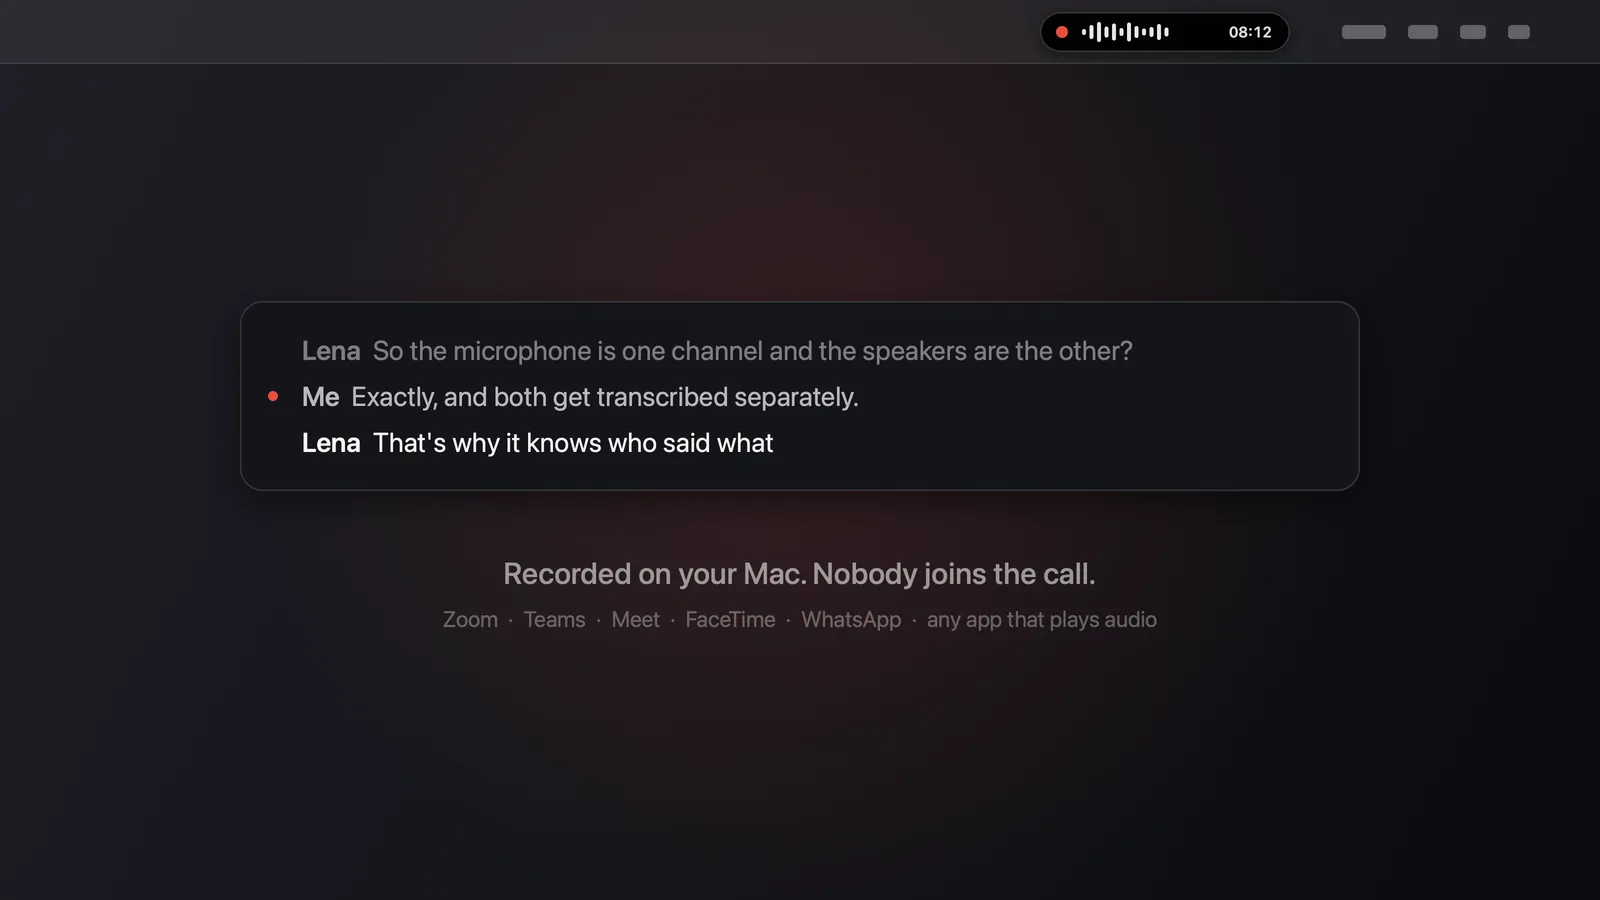
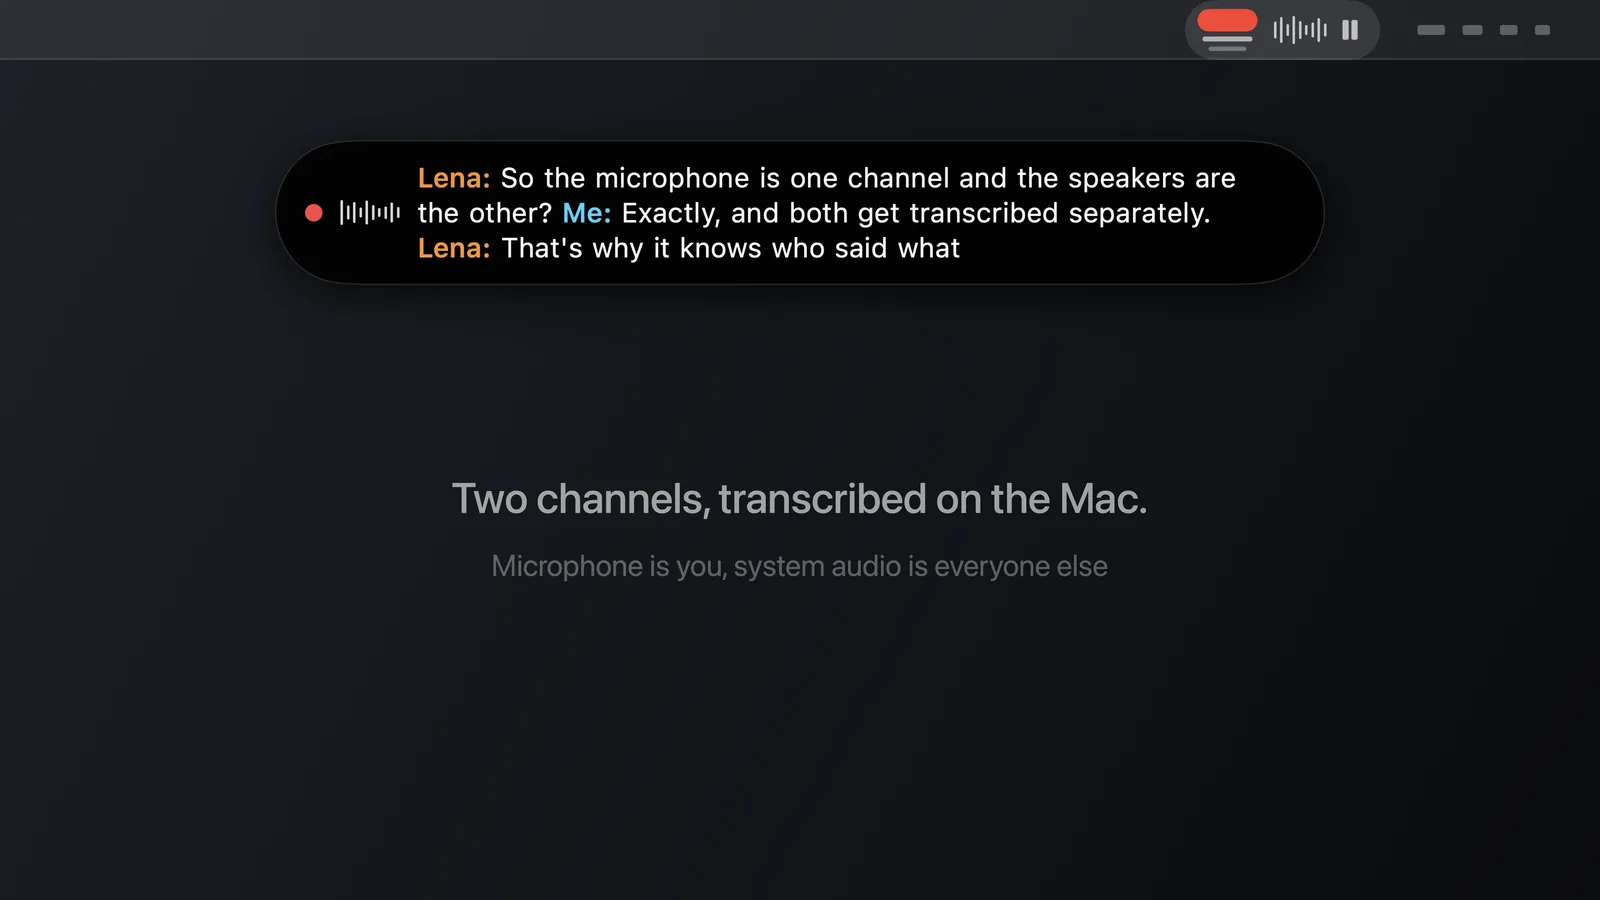
Hero images rendered from the real UI (--render-hero), AI disclaimer under every post
- new Transcriber --render-hero: composes PillView and FloatingBarView with fake state
  on the icon background, replaces the hand-drawn make-hero.swift
- build adds an italic AI note from config.json aiNote under the closing paragraph of every post
- all three heroes and the OG image regenerated

diff --git a/Sources/Transcriber/App/HeroRender.swift b/Sources/Transcriber/App/HeroRender.swift
@@ -1,0 +1,114 @@
+import AppKit
+import SwiftUI
+
+/// Renders marketing images from the real UI code: the menu bar pill (`PillView`) and the
+/// floating transcript bar (`FloatingBarView`) with fake state, composed on the dark
+/// background of the app icon. Used for blog hero images so they look exactly like the app.
+///
+///   Transcriber --render-hero out.png [--timer 12:34] [--caption "text"] [--sub "text"] "Anna: line" "Me: line" ...
+///
+/// Lines are "Speaker: text". The last line is the one being transcribed right now.
+enum HeroRender {
+    @MainActor
+    static func run(arguments: [String]) async -> Int32 {
+        var args = Array(arguments.dropFirst())
+        guard let i = args.firstIndex(of: "--render-hero"), i + 1 < args.count else {
+            FileHandle.standardError.write("usage: Transcriber --render-hero out.png [--timer mm:ss] [--caption text] [--sub text] \"Name: line\" ...\n".data(using: .utf8)!)
+            return 2
+        }
+        args.remove(at: i)
+        let out = args.remove(at: i)
+        var timer = "12:47", caption = "Recorded on your Mac. Nobody joins the call.", sub = "Zoom  ·  Teams  ·  Meet  ·  FaceTime  ·  WhatsApp  ·  any app that plays audio"
+        func take(_ flag: String, into: inout String) {
+            if let j = args.firstIndex(of: flag), j + 1 < args.count { into = args[j + 1]; args.removeSubrange(j...j + 1) }
+        }
+        take("--timer", into: &timer); take("--caption", into: &caption); take("--sub", into: &sub)
+        let lines = args
+
+        // Fake state: recording for `timer`, a live waveform, the given lines as final transcript lines.
+        let state = AppState()
+        let settings = AppSettings.shared
+        let parts = timer.split(separator: ":").compactMap { Int($0) }
+        let elapsed = TimeInterval((parts.count == 2 ? parts[0] * 60 + parts[1] : 0))
+        state.phase = .recording
+        state.recordingStartedAt = Date().addingTimeInterval(-elapsed)
+        state.levelHistory = [0.30, 0.70, 1.0, 0.55, 0.85, 0.40, 0.95, 0.60, 0.35, 0.50, 0.80, 0.45,
+                              0.30, 0.70, 1.0, 0.55, 0.85, 0.40, 0.95, 0.60, 0.35, 0.50, 0.80, 0.45]
+        var t: TimeInterval = 0
+        state.liveLines = lines.map { raw in
+            let p = raw.split(separator: ":", maxSplits: 1).map { $0.trimmingCharacters(in: .whitespaces) }
+            let speaker = p.count == 2 ? p[0] : "Speaker"
+            let text = p.count == 2 ? p[1] : raw
+            let channel: Channel? = speaker.lowercased() == settings.myName.lowercased() || speaker.lowercased() == "me" ? .me : .them
+            defer { t += 6 }
+            return TranscriptLine(channel: channel, speaker: speaker, text: text, start: t)
+        }
+        let model = FloatingBarModel()
+        model.animated = false
+        model.update(state: state, settings: settings)
+
+        // Render both views from the real code at a fixed scale.
+        let scale: CGFloat = 5
+        let bar = FloatingBarView(state: state, settings: settings, model: model)
+        let pill = PillView(state: state).environment(\.colorScheme, .dark)
+        guard let barImg = render(bar, scale: scale), let pillImg = render(pill, scale: scale) else {
+            FileHandle.standardError.write("render failed\n".data(using: .utf8)!)
+            return 1
+        }
+
+        // Compose: dark gradient (app icon), a menu bar strip with the pill at the right, the bar under it.
+        let W: CGFloat = 3200, H: CGFloat = 1800
+        let img = NSImage(size: NSSize(width: W, height: H))
+        img.lockFocus()
+        guard let ctx = NSGraphicsContext.current?.cgContext else { return 1 }
+        let sRGB = CGColorSpace(name: CGColorSpace.sRGB)!
+        func rgb(_ r: CGFloat, _ g: CGFloat, _ b: CGFloat, _ a: CGFloat = 1) -> CGColor { NSColor(srgbRed: r/255, green: g/255, blue: b/255, alpha: a).cgColor }
+        let g = CGGradient(colorsSpace: sRGB, colors: [rgb(0x1e, 0x20, 0x28), rgb(0x0a, 0x0b, 0x0f)] as CFArray, locations: [0, 1])!
+        ctx.drawLinearGradient(g, start: CGPoint(x: 0, y: H), end: CGPoint(x: W, y: 0), options: [])
+
+        let menuH = 24 * scale
+        ctx.setFillColor(rgb(255, 255, 255, 0.07)); ctx.fill(CGRect(x: 0, y: H - menuH, width: W, height: menuH))
+        ctx.setFillColor(rgb(255, 255, 255, 0.10)); ctx.fill(CGRect(x: 0, y: H - menuH, width: W, height: 1.5 * scale / 2))
+        // faint placeholders for other menu bar items to the right of the pill
+        var gx = W - 20 * scale
+        for w in [6, 7, 8, 11] as [CGFloat] {
+            let r = CGRect(x: gx - w * scale, y: H - menuH / 2 - 2 * scale, width: w * scale, height: 4 * scale)
+            ctx.addPath(CGPath(roundedRect: r, cornerWidth: scale, cornerHeight: scale, transform: nil)); ctx.setFillColor(rgb(255, 255, 255, 0.28)); ctx.fillPath()
+            gx -= (w + 7) * scale
+        }
+        let pillSize = CGSize(width: CGFloat(pillImg.width), height: CGFloat(pillImg.height))
+        ctx.draw(pillImg, in: CGRect(x: gx - 8 * scale - pillSize.width, y: H - menuH / 2 - pillSize.height / 2, width: pillSize.width, height: pillSize.height))
+
+        let barSize = CGSize(width: CGFloat(barImg.width), height: CGFloat(barImg.height))
+        let barRect = CGRect(x: (W - barSize.width) / 2, y: H - menuH - 8 * scale - barSize.height, width: barSize.width, height: barSize.height)
+        ctx.saveGState()
+        ctx.setShadow(offset: CGSize(width: 0, height: -6 * scale / 2), blur: 24 * scale / 2, color: rgb(0, 0, 0, 0.55))
+        ctx.draw(barImg, in: barRect)
+        ctx.restoreGState()
+
+        if !caption.isEmpty {
+            let capAttrs: [NSAttributedString.Key: Any] = [.font: NSFont.systemFont(ofSize: 17 * scale, weight: .medium), .foregroundColor: NSColor.white.withAlphaComponent(0.6)]
+            let csz = (caption as NSString).size(withAttributes: capAttrs)
+            (caption as NSString).draw(at: CGPoint(x: (W - csz.width) / 2, y: H * 0.42), withAttributes: capAttrs)
+            if !sub.isEmpty {
+                let subAttrs: [NSAttributedString.Key: Any] = [.font: NSFont.systemFont(ofSize: 12 * scale), .foregroundColor: NSColor.white.withAlphaComponent(0.32)]
+                let ssz = (sub as NSString).size(withAttributes: subAttrs)
+                (sub as NSString).draw(at: CGPoint(x: (W - ssz.width) / 2, y: H * 0.42 - 10 * scale - ssz.height), withAttributes: subAttrs)
+            }
+        }
+        img.unlockFocus()
+
+        guard let tiff = img.tiffRepresentation, let rep = NSBitmapImageRep(data: tiff), let png = rep.representation(using: .png, properties: [:]) else { return 1 }
+        do { try png.write(to: URL(fileURLWithPath: out)) } catch { FileHandle.standardError.write("\(error)\n".data(using: .utf8)!); return 1 }
+        print("wrote \(out) (bar \(Int(barSize.width / scale))x\(Int(barSize.height / scale)) pt, \(lines.count) lines)")
+        return 0
+    }
+
+    @MainActor
+    private static func render<V: View>(_ view: V, scale: CGFloat) -> CGImage? {
+        let renderer = ImageRenderer(content: view)
+        renderer.scale = scale
+        renderer.isOpaque = false
+        return renderer.cgImage
+    }
+}

diff --git a/website/blog/record-zoom-call-mac-transcript/index.html b/website/blog/record-zoom-call-mac-transcript/index.html
@@ -153,6 +153,10 @@ footer a { color: #e6e7ec; }
 footer a:hover { color: #fff; }
 footer .legal { max-width: 980px; margin: 14px auto 0; padding-top: 12px; border-top: 1px solid rgba(255,255,255,0.1); font-size: 11.5px; line-height: 1.5; color: #8a8e9b; }
 @media (max-width: 720px) { footer { padding: 22px 22px 18px; } footer .in { flex-wrap: wrap; gap: 12px 18px; } footer .tag { display: none; } footer .links { gap: 16px; } }
+
+/* AI disclaimer under every post */
+.ai-note { margin: 28px 0 0; font-size: 13px; line-height: 1.5; color: var(--muted, #767b8a); }
+.ai-note em { font-style: italic; }
 </style>
 
 <script type="application/ld+json">{"@context":"https://schema.org","@graph":[{"@type":"BlogPosting","headline":"How to record a Zoom call on a Mac and get a transcript","description":"Record a Zoom call on your Mac, with both sides of the conversation, and turn it into a transcript without sending the audio anywhere.","datePublished":"2026-09-08T12:00:00.000Z","dateModified":"2026-09-08T12:00:00.000Z","author":{"@type":"Person","name":"Moritz Krause","url":"https://moritz-krause.com"},"publisher":{"@type":"Organization","name":"Transcriber","url":"https://transcriber-x84.pages.dev"},"mainEntityOfPage":"https://transcriber-x84.pages.dev/blog/record-zoom-call-mac-transcript/","keywords":"record zoom call mac, zoom call transcript, transcribe zoom call, system audio mac","wordCount":854,"inLanguage":"en"},{"@type":"BreadcrumbList","itemListElement":[{"@type":"ListItem","position":1,"name":"Transcriber","item":"https://transcriber-x84.pages.dev"},{"@type":"ListItem","position":2,"name":"Blog","item":"https://transcriber-x84.pages.dev/blog/"},{"@type":"ListItem","position":3,"name":"How to record a Zoom call on a Mac and get a transcript","item":"https://transcriber-x84.pages.dev/blog/record-zoom-call-mac-transcript/"}]},{"@type":"FAQPage","mainEntity":[{"@type":"Question","name":"Does Zoom have to be set to record for this to work?","acceptedAnswer":{"@type":"Answer","text":"No. Transcriber listens to what your Mac plays and what your microphone hears, so it doesn't matter whether Zoom's own recording is on, off, or locked by the host."}},{"@type":"Question","name":"Will the other person be transcribed as well?","acceptedAnswer":{"@type":"Answer","text":"Yes. The far end comes in through your Mac's audio output and is captured as its own channel, so their words land in the transcript with a separate speaker label."}},{"@type":"Question","name":"Does any audio leave my Mac?","acceptedAnswer":{"@type":"Answer","text":"No. Transcription runs on your machine with a downloaded model. The only network access is the one-time download of that model and the update check against GitHub."}},{"@type":"Question","name":"Which macOS version do I need?","acceptedAnswer":{"@type":"Answer","text":"macOS 14.2 or newer, because that's where Apple added the audio tap that makes recording another app's sound possible. An Apple Silicon Mac is recommended."}},{"@type":"Question","name":"Is it legal to record a call?","acceptedAnswer":{"@type":"Answer","text":"That depends on where you and the other people are. In many places, including Germany, recording without consent is a crime. Tell everyone before you press record."}}]}]}</script>
@@ -201,6 +205,7 @@ footer .legal { max-width: 980px; margin: 14px auto 0; padding-top: 12px; border
     <div class="cta-icon"><svg viewBox="0 0 200 200" aria-hidden="true"><defs><linearGradient id="gF" x1="0" y1="0" x2="1" y2="1"><stop offset="0" stop-color="#1e2028"/><stop offset="1" stop-color="#0a0b0f"/></linearGradient></defs><rect width="200" height="200" rx="44.74" fill="url(#gF)"/><rect x="22" y="53" width="156" height="56" rx="28" fill="rgba(0,0,0,0.92)"/><rect x="23" y="54" width="154" height="54" rx="27" fill="none" stroke="rgba(255,255,255,0.2)" stroke-width="2"/><circle cx="50" cy="81" r="8" fill="#ff3b30"/><g fill="rgba(255,255,255,0.9)"><rect x="72" y="76.8" width="4.8" height="8.4" rx="2.4"/><rect x="80.8" y="71.2" width="4.8" height="19.6" rx="2.4"/><rect x="89.6" y="67" width="4.8" height="28" rx="2.4"/><rect x="98.4" y="73.3" width="4.8" height="15.4" rx="2.4"/><rect x="107.2" y="69.1" width="4.8" height="23.8" rx="2.4"/><rect x="116" y="75.4" width="4.8" height="11.2" rx="2.4"/><rect x="124.8" y="67.7" width="4.8" height="26.6" rx="2.4"/><rect x="133.6" y="72.6" width="4.8" height="16.8" rx="2.4"/><rect x="142.4" y="76.1" width="4.8" height="9.8" rx="2.4"/><rect x="151.2" y="74" width="4.8" height="14" rx="2.4"/></g><rect x="34" y="123" width="132" height="9" rx="4.5" fill="rgba(255,255,255,0.6)"/><rect x="50" y="146" width="100" height="9" rx="4.5" fill="rgba(255,255,255,0.3)"/></svg></div>
     <div><p>If that sounds like how you'd want to work, Transcriber is free and runs on your Mac. If not, no hard feelings, there are plenty of other ways to get a transcript.</p><a class="btn lg" href="https://github.com/moritzjuliankrause/Transcriber/releases/latest">Download for macOS</a> <a class="quiet" href="../../">What Transcriber does</a></div>
   </aside>
+  <p class="ai-note"><em>This article was written with the help of AI, based on how Transcriber actually works, and read and approved by Moritz Krause before publishing.</em></p>
   
 </main>
 <footer>

diff --git a/website/blog/preview/how-transcriber-works/index.html b/website/blog/preview/how-transcriber-works/index.html
@@ -154,6 +154,10 @@ footer a { color: #e6e7ec; }
 footer a:hover { color: #fff; }
 footer .legal { max-width: 980px; margin: 14px auto 0; padding-top: 12px; border-top: 1px solid rgba(255,255,255,0.1); font-size: 11.5px; line-height: 1.5; color: #8a8e9b; }
 @media (max-width: 720px) { footer { padding: 22px 22px 18px; } footer .in { flex-wrap: wrap; gap: 12px 18px; } footer .tag { display: none; } footer .links { gap: 16px; } }
+
+/* AI disclaimer under every post */
+.ai-note { margin: 28px 0 0; font-size: 13px; line-height: 1.5; color: var(--muted, #767b8a); }
+.ai-note em { font-style: italic; }
 </style>
 
 
@@ -203,6 +207,7 @@ footer .legal { max-width: 980px; margin: 14px auto 0; padding-top: 12px; border
     <div class="cta-icon"><svg viewBox="0 0 200 200" aria-hidden="true"><defs><linearGradient id="gF" x1="0" y1="0" x2="1" y2="1"><stop offset="0" stop-color="#1e2028"/><stop offset="1" stop-color="#0a0b0f"/></linearGradient></defs><rect width="200" height="200" rx="44.74" fill="url(#gF)"/><rect x="22" y="53" width="156" height="56" rx="28" fill="rgba(0,0,0,0.92)"/><rect x="23" y="54" width="154" height="54" rx="27" fill="none" stroke="rgba(255,255,255,0.2)" stroke-width="2"/><circle cx="50" cy="81" r="8" fill="#ff3b30"/><g fill="rgba(255,255,255,0.9)"><rect x="72" y="76.8" width="4.8" height="8.4" rx="2.4"/><rect x="80.8" y="71.2" width="4.8" height="19.6" rx="2.4"/><rect x="89.6" y="67" width="4.8" height="28" rx="2.4"/><rect x="98.4" y="73.3" width="4.8" height="15.4" rx="2.4"/><rect x="107.2" y="69.1" width="4.8" height="23.8" rx="2.4"/><rect x="116" y="75.4" width="4.8" height="11.2" rx="2.4"/><rect x="124.8" y="67.7" width="4.8" height="26.6" rx="2.4"/><rect x="133.6" y="72.6" width="4.8" height="16.8" rx="2.4"/><rect x="142.4" y="76.1" width="4.8" height="9.8" rx="2.4"/><rect x="151.2" y="74" width="4.8" height="14" rx="2.4"/></g><rect x="34" y="123" width="132" height="9" rx="4.5" fill="rgba(255,255,255,0.6)"/><rect x="50" y="146" width="100" height="9" rx="4.5" fill="rgba(255,255,255,0.3)"/></svg></div>
     <div><p>If that sounds like how you'd want to work, Transcriber is free and runs on your Mac. If not, no hard feelings, there are plenty of other ways to get a transcript.</p><a class="btn lg" href="https://github.com/moritzjuliankrause/Transcriber/releases/latest">Download for macOS</a> <a class="quiet" href="../../../">What Transcriber does</a></div>
   </aside>
+  <p class="ai-note"><em>This article was written with the help of AI, based on how Transcriber actually works, and read and approved by Moritz Krause before publishing.</em></p>
   <section class="more"><h2>More from the blog</h2><ul><li><a href="../../record-zoom-call-mac-transcript/"><span class="t">How to record a Zoom call on a Mac and get a transcript</span><span class="d">September 8, 2026</span></a></li></ul></section>
 </main>
 <footer>

diff --git a/website/blog/preview/record-meeting-without-bot-mac/index.html b/website/blog/preview/record-meeting-without-bot-mac/index.html
@@ -154,6 +154,10 @@ footer a { color: #e6e7ec; }
 footer a:hover { color: #fff; }
 footer .legal { max-width: 980px; margin: 14px auto 0; padding-top: 12px; border-top: 1px solid rgba(255,255,255,0.1); font-size: 11.5px; line-height: 1.5; color: #8a8e9b; }
 @media (max-width: 720px) { footer { padding: 22px 22px 18px; } footer .in { flex-wrap: wrap; gap: 12px 18px; } footer .tag { display: none; } footer .links { gap: 16px; } }
+
+/* AI disclaimer under every post */
+.ai-note { margin: 28px 0 0; font-size: 13px; line-height: 1.5; color: var(--muted, #767b8a); }
+.ai-note em { font-style: italic; }
 </style>
 
 
@@ -200,6 +204,7 @@ footer .legal { max-width: 980px; margin: 14px auto 0; padding-top: 12px; border
     <div class="cta-icon"><svg viewBox="0 0 200 200" aria-hidden="true"><defs><linearGradient id="gF" x1="0" y1="0" x2="1" y2="1"><stop offset="0" stop-color="#1e2028"/><stop offset="1" stop-color="#0a0b0f"/></linearGradient></defs><rect width="200" height="200" rx="44.74" fill="url(#gF)"/><rect x="22" y="53" width="156" height="56" rx="28" fill="rgba(0,0,0,0.92)"/><rect x="23" y="54" width="154" height="54" rx="27" fill="none" stroke="rgba(255,255,255,0.2)" stroke-width="2"/><circle cx="50" cy="81" r="8" fill="#ff3b30"/><g fill="rgba(255,255,255,0.9)"><rect x="72" y="76.8" width="4.8" height="8.4" rx="2.4"/><rect x="80.8" y="71.2" width="4.8" height="19.6" rx="2.4"/><rect x="89.6" y="67" width="4.8" height="28" rx="2.4"/><rect x="98.4" y="73.3" width="4.8" height="15.4" rx="2.4"/><rect x="107.2" y="69.1" width="4.8" height="23.8" rx="2.4"/><rect x="116" y="75.4" width="4.8" height="11.2" rx="2.4"/><rect x="124.8" y="67.7" width="4.8" height="26.6" rx="2.4"/><rect x="133.6" y="72.6" width="4.8" height="16.8" rx="2.4"/><rect x="142.4" y="76.1" width="4.8" height="9.8" rx="2.4"/><rect x="151.2" y="74" width="4.8" height="14" rx="2.4"/></g><rect x="34" y="123" width="132" height="9" rx="4.5" fill="rgba(255,255,255,0.6)"/><rect x="50" y="146" width="100" height="9" rx="4.5" fill="rgba(255,255,255,0.3)"/></svg></div>
     <div><p>If that sounds like how you'd want to work, Transcriber is free and runs on your Mac. If not, no hard feelings, there are plenty of other ways to get a transcript.</p><a class="btn lg" href="https://github.com/moritzjuliankrause/Transcriber/releases/latest">Download for macOS</a> <a class="quiet" href="../../../">What Transcriber does</a></div>
   </aside>
+  <p class="ai-note"><em>This article was written with the help of AI, based on how Transcriber actually works, and read and approved by Moritz Krause before publishing.</em></p>
   <section class="more"><h2>More from the blog</h2><ul><li><a href="../../record-zoom-call-mac-transcript/"><span class="t">How to record a Zoom call on a Mac and get a transcript</span><span class="d">September 8, 2026</span></a></li></ul></section>
 </main>
 <footer>

diff --git a/website/blog/index.html b/website/blog/index.html
@@ -153,6 +153,10 @@ footer a { color: #e6e7ec; }
 footer a:hover { color: #fff; }
 footer .legal { max-width: 980px; margin: 14px auto 0; padding-top: 12px; border-top: 1px solid rgba(255,255,255,0.1); font-size: 11.5px; line-height: 1.5; color: #8a8e9b; }
 @media (max-width: 720px) { footer { padding: 22px 22px 18px; } footer .in { flex-wrap: wrap; gap: 12px 18px; } footer .tag { display: none; } footer .links { gap: 16px; } }
+
+/* AI disclaimer under every post */
+.ai-note { margin: 28px 0 0; font-size: 13px; line-height: 1.5; color: var(--muted, #767b8a); }
+.ai-note em { font-style: italic; }
 </style>
 
 <script type="application/ld+json">{"@context":"https://schema.org","@type":"Blog","name":"Transcriber Blog","url":"https://transcriber-x84.pages.dev/blog/","description":"Notes on recording and transcribing calls on a Mac.","publisher":{"@type":"Organization","name":"Transcriber","url":"https://transcriber-x84.pages.dev"}}</script>

diff --git a/Sources/Transcriber/App/AppDelegate.swift b/Sources/Transcriber/App/AppDelegate.swift
@@ -60,6 +60,10 @@ final class AppDelegate: NSObject, NSApplicationDelegate {
             let name = i + 1 < CommandLine.arguments.count ? CommandLine.arguments[i + 1] : ""
             showSettings(section: SettingsView.Section.allCases.first { $0.rawValue.lowercased() == name.lowercased() })
         }
+        // Development aid: `Transcriber --start` begins recording right after launch.
+        if CommandLine.arguments.contains("--start") {
+            DispatchQueue.main.asyncAfter(deadline: .now() + 1.5) { [weak self] in self?.toggleRecording() }
+        }
         // Development aid: `Transcriber --title-test` shows the bar's save prompt right away.
         if CommandLine.arguments.contains("--title-test") {
             Task { @MainActor in

diff --git a/website/blog/blog.css b/website/blog/blog.css
@@ -135,3 +135,7 @@ footer a { color: #e6e7ec; }
 footer a:hover { color: #fff; }
 footer .legal { max-width: 980px; margin: 14px auto 0; padding-top: 12px; border-top: 1px solid rgba(255,255,255,0.1); font-size: 11.5px; line-height: 1.5; color: #8a8e9b; }
 @media (max-width: 720px) { footer { padding: 22px 22px 18px; } footer .in { flex-wrap: wrap; gap: 12px 18px; } footer .tag { display: none; } footer .links { gap: 16px; } }
+
+/* AI disclaimer under every post */
+.ai-note { margin: 28px 0 0; font-size: 13px; line-height: 1.5; color: var(--muted, #767b8a); }
+.ai-note em { font-style: italic; }

diff --git a/Sources/Transcriber/main.swift b/Sources/Transcriber/main.swift
@@ -12,6 +12,10 @@ if CommandLine.arguments.contains("--capture-test") {
     let code = await CaptureTest.run(arguments: CommandLine.arguments)
     exit(code)
 }
+if CommandLine.arguments.contains("--render-hero") {
+    let code = await HeroRender.run(arguments: CommandLine.arguments)
+    exit(code)
+}
 if CommandLine.arguments.contains("--transcribe") {
     let code = await HeadlessTranscribe.run(arguments: CommandLine.arguments)
     exit(code)

diff --git a/website/blog/README.md b/website/blog/README.md
@@ -19,8 +19,7 @@ website/
 └── scripts/
     ├── build-blog.mjs          renders everything above. Node 22, no dependencies.
     ├── notify-slack.mjs        posts a draft to Slack with Approve / Request changes / Edit / Reject buttons
-    ├── slack-approve-worker.js Cloudflare Worker that turns a button click into a GitHub dispatch
-    └── make-hero.swift         renders a 16:9 hero image in the app's design (menu bar pill + transcript bar)
+    └── slack-approve-worker.js Cloudflare Worker that turns a button click into a GitHub dispatch
 ```
 
 ## Writing a post
@@ -60,9 +59,21 @@ tables (`| a | b |`, they stack into cards on phones), `---`.
 
 Facts about Transcriber come from the app's README only. If it's not in there, it doesn't go in a post.
 
-Hero images: a real screenshot when there is something real to show, otherwise render one in the
-app's design: `swift website/scripts/make-hero.swift out.png "Anna: line" "Me: line" "Anna: line" 12:34`,
-then convert to WebP (1600x900, quality ~82) into `img/<slug>/hero.webp`.
+Hero images are rendered by the app itself from its real UI code (`--render-hero`, see
+`Sources/Transcriber/App/HeroRender.swift`), so they look exactly like the menu bar pill and the
+floating bar:
+
+```sh
+swift build -c release
+.build/release/Transcriber --render-hero out.png --timer 12:34 --caption "Text under the bar" --sub "smaller line" \
+  "Anna: first line" "Me: second line" "Anna: third line"
+```
+
+Then convert to WebP, 1600x900, quality about 82, into `img/<slug>/hero.webp`. A real screenshot
+of a real call is still better when there is one.
+
+Every post automatically gets the AI disclaimer from `aiNote` in `config.json` under the closing
+paragraph. Do not write your own disclaimer into the body.
 
 ## Building
 
